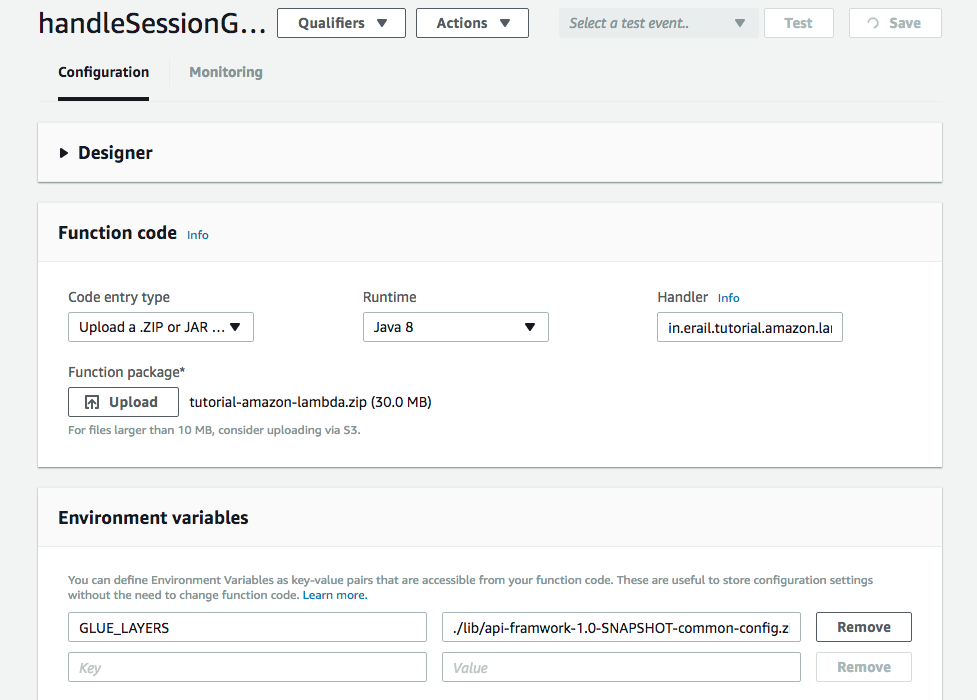
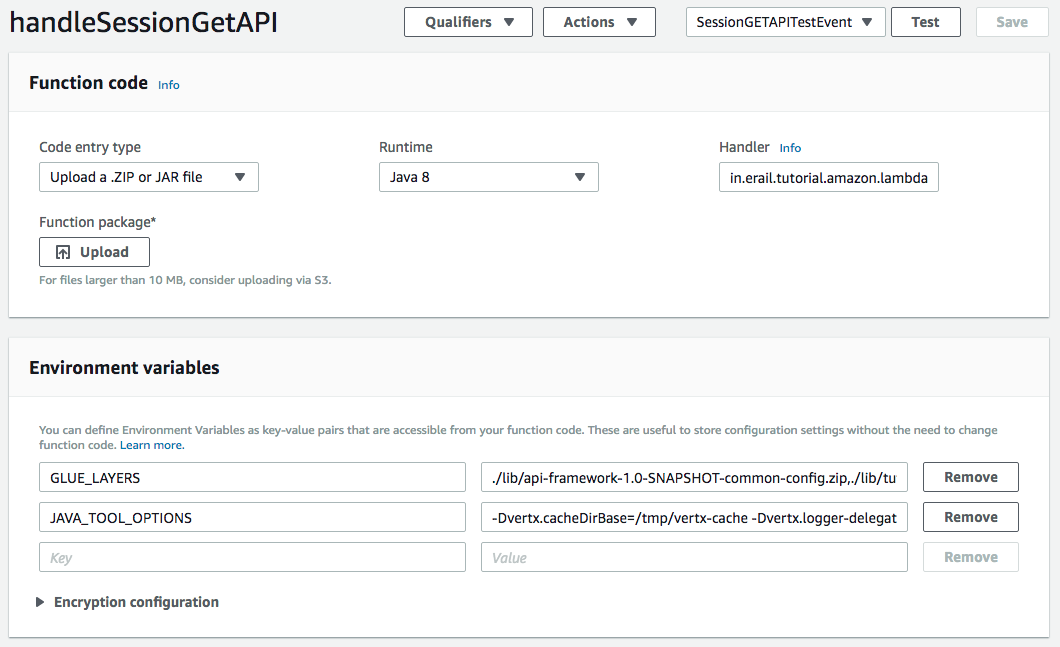
Updated document

diff --git a/docs/index.html b/docs/index.html
@@ -2233,25 +2233,24 @@ Maven, we will be using Gradle Project for this tutorial.</p>
 <span class="lineno"> 6 </span><span class="tok-o">}</span>
 <span class="lineno"> 7 </span>
 <span class="lineno"> 8 </span><span class="tok-n">dependencies</span> <span class="tok-o">{</span>
-<span class="lineno"> 9 </span>    <span class="tok-n">compile</span> <span class="tok-o">(</span>
-<span class="lineno">10 </span>        <span class="tok-c1">//Only Required Dependecy</span>
-<span class="lineno">11 </span>        <span class="tok-s1">&#39;in.erail:api-framework-amazon-lambda:1.0-SNAPSHOT&#39;</span><span class="tok-o">,</span>
-<span class="lineno">12 </span>        <span class="tok-c1">//Already developed Session GET API Tutorial project</span>
-<span class="lineno">13 </span>        <span class="tok-s1">&#39;in.erail:tutorial-simple-get-api:1.0-SNAPSHOT&#39;</span><span class="tok-o">,</span>
-<span class="lineno">14 </span>        <span class="tok-c1">//Session GET API Tutorial project configuration</span>
-<span class="lineno">15 </span>        <span class="tok-s1">&#39;in.erail:tutorial-simple-get-api:1.0-SNAPSHOT:common-config@zip&#39;</span>
-<span class="lineno">16 </span>    <span class="tok-o">)</span>
-<span class="lineno">17 </span><span class="tok-o">}</span>
-<span class="lineno">18 </span>
-<span class="lineno">19 </span><span class="tok-n">task</span> <span class="tok-nf">buildZip</span><span class="tok-o">(</span><span class="tok-nl">type:</span> <span class="tok-n">Zip</span><span class="tok-o">)</span> <span class="tok-o">{</span>
-<span class="lineno">20 </span>    <span class="tok-n">from</span> <span class="tok-n">compileJava</span>
-<span class="lineno">21 </span>    <span class="tok-n">from</span> <span class="tok-n">processResources</span>
-<span class="lineno">22 </span>    <span class="tok-nf">into</span><span class="tok-o">(</span><span class="tok-s1">&#39;lib&#39;</span><span class="tok-o">)</span> <span class="tok-o">{</span>
-<span class="lineno">23 </span>        <span class="tok-n">from</span> <span class="tok-n">configurations</span><span class="tok-o">.</span><span class="tok-na">runtime</span>
-<span class="lineno">24 </span>    <span class="tok-o">}</span>
-<span class="lineno">25 </span><span class="tok-o">}</span>
-<span class="lineno">26 </span>
-<span class="lineno">27 </span><span class="tok-n">build</span><span class="tok-o">.</span><span class="tok-na">dependsOn</span> <span class="tok-n">buildZip</span></code></pre>
+<span class="lineno"> 9 </span>    <span class="tok-c1">//Only Required Dependecies</span>
+<span class="lineno">10 </span>    <span class="tok-n">compile</span> <span class="tok-s1">&#39;in.erail:api-framework-amazon-lambda:1.0-SNAPSHOT&#39;</span>
+<span class="lineno">11 </span>    <span class="tok-n">compile</span> <span class="tok-s1">&#39;in.erail:api-framework-amazon-lambda:1.0-SNAPSHOT:common-config@zip&#39;</span>
+<span class="lineno">12 </span>    <span class="tok-c1">//Already developed Session GET API Tutorial project</span>
+<span class="lineno">13 </span>    <span class="tok-n">compile</span> <span class="tok-s1">&#39;in.erail:tutorial-simple-get-api:1.0-SNAPSHOT&#39;</span>
+<span class="lineno">14 </span>    <span class="tok-c1">//Session GET API Tutorial project configuration</span>
+<span class="lineno">15 </span>    <span class="tok-n">compile</span> <span class="tok-s1">&#39;in.erail:tutorial-simple-get-api:1.0-SNAPSHOT:common-config@zip&#39;</span>
+<span class="lineno">16 </span><span class="tok-o">}</span>
+<span class="lineno">17 </span>
+<span class="lineno">18 </span><span class="tok-n">task</span> <span class="tok-nf">buildZip</span><span class="tok-o">(</span><span class="tok-nl">type:</span> <span class="tok-n">Zip</span><span class="tok-o">)</span> <span class="tok-o">{</span>
+<span class="lineno">19 </span>    <span class="tok-n">from</span> <span class="tok-n">compileJava</span>
+<span class="lineno">20 </span>    <span class="tok-n">from</span> <span class="tok-n">processResources</span>
+<span class="lineno">21 </span>    <span class="tok-nf">into</span><span class="tok-o">(</span><span class="tok-s1">&#39;lib&#39;</span><span class="tok-o">)</span> <span class="tok-o">{</span>
+<span class="lineno">22 </span>        <span class="tok-n">from</span> <span class="tok-n">configurations</span><span class="tok-o">.</span><span class="tok-na">runtime</span>
+<span class="lineno">23 </span>    <span class="tok-o">}</span>
+<span class="lineno">24 </span><span class="tok-o">}</span>
+<span class="lineno">25 </span>
+<span class="lineno">26 </span><span class="tok-n">build</span><span class="tok-o">.</span><span class="tok-na">dependsOn</span> <span class="tok-n">buildZip</span></code></pre>
 </div>
 </div>
 <div class="paragraph">
@@ -2373,7 +2372,10 @@ and class name. No handle)</p>
 <div class="ulist">
 <ul>
 <li>
-<p><strong>GLUE_LAYERS</strong>  :  <em>./lib/api-framework-1.0-SNAPSHOT-common-config.zip,./lib/tutorial-simple-get-api-1.0-SNAPSHOT-common-config.zip</em></p>
+<p><strong>GLUE_LAYERS</strong>  :  <em>./lib/api-framework-1.0-SNAPSHOT-common-config.zip,./lib/tutorial-simple-get-api-1.0-SNAPSHOT-common-config.zip,./lib/api-framework-amazon-lambda-1.0-SNAPSHOT-common-config.zip</em></p>
+</li>
+<li>
+<p><strong>JAVA_TOOL_OPTIONS</strong>  :  <em>-Dvertx.cacheDirBase=/tmp/vertx-cache -Dvertx.logger-delegate-factory-class-name=io.vertx.core.logging.Log4j2LogDelegateFactory -Dlog4j.configurationFile=./log4j.xml</em></p>
 </li>
 </ul>
 </div>
